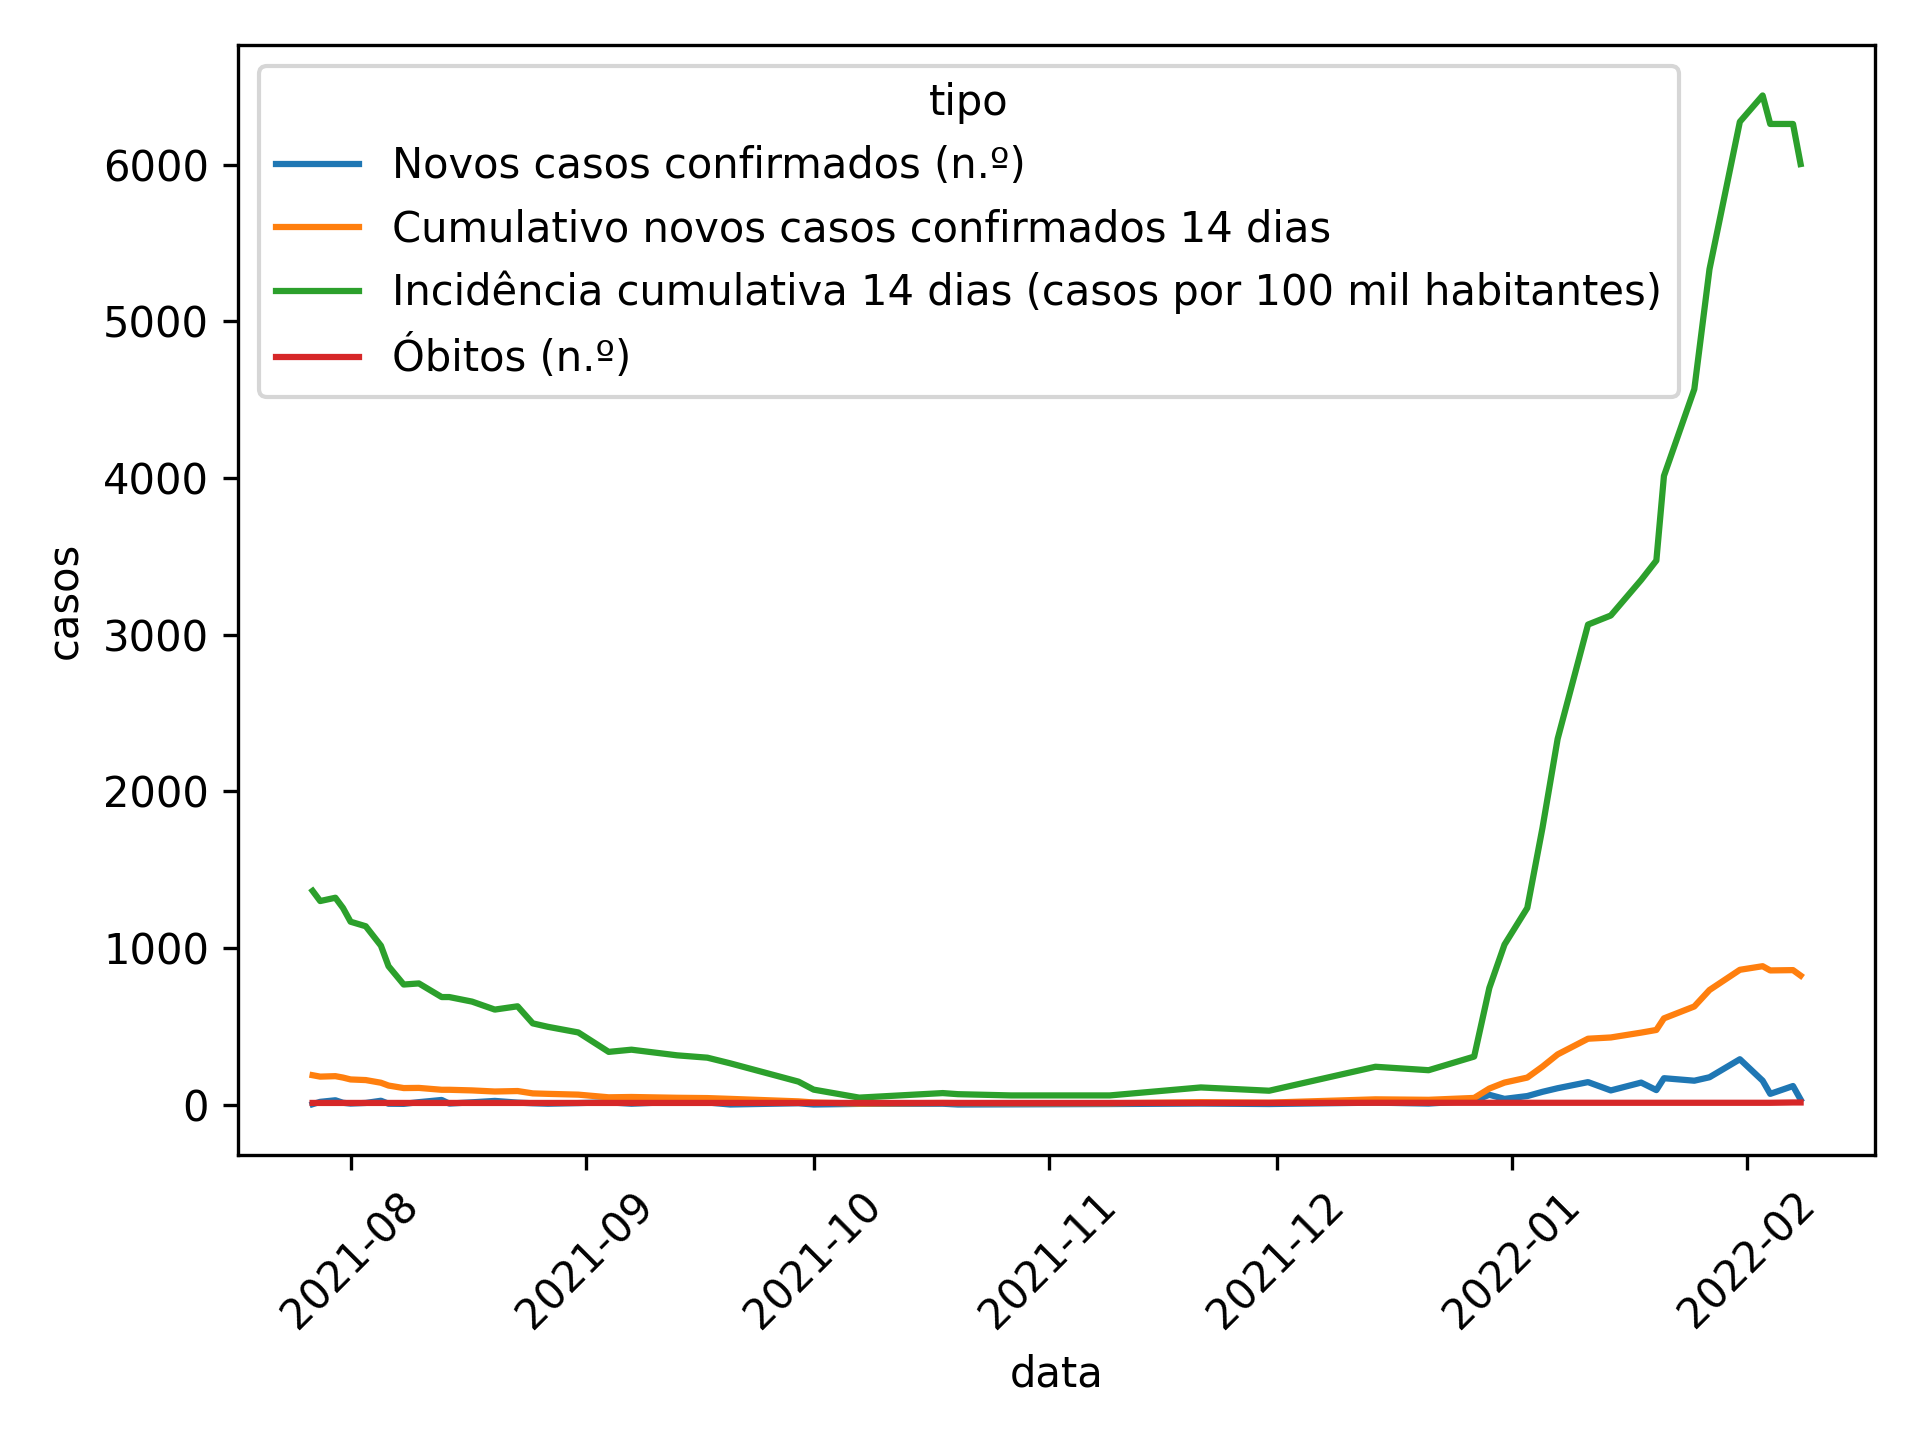
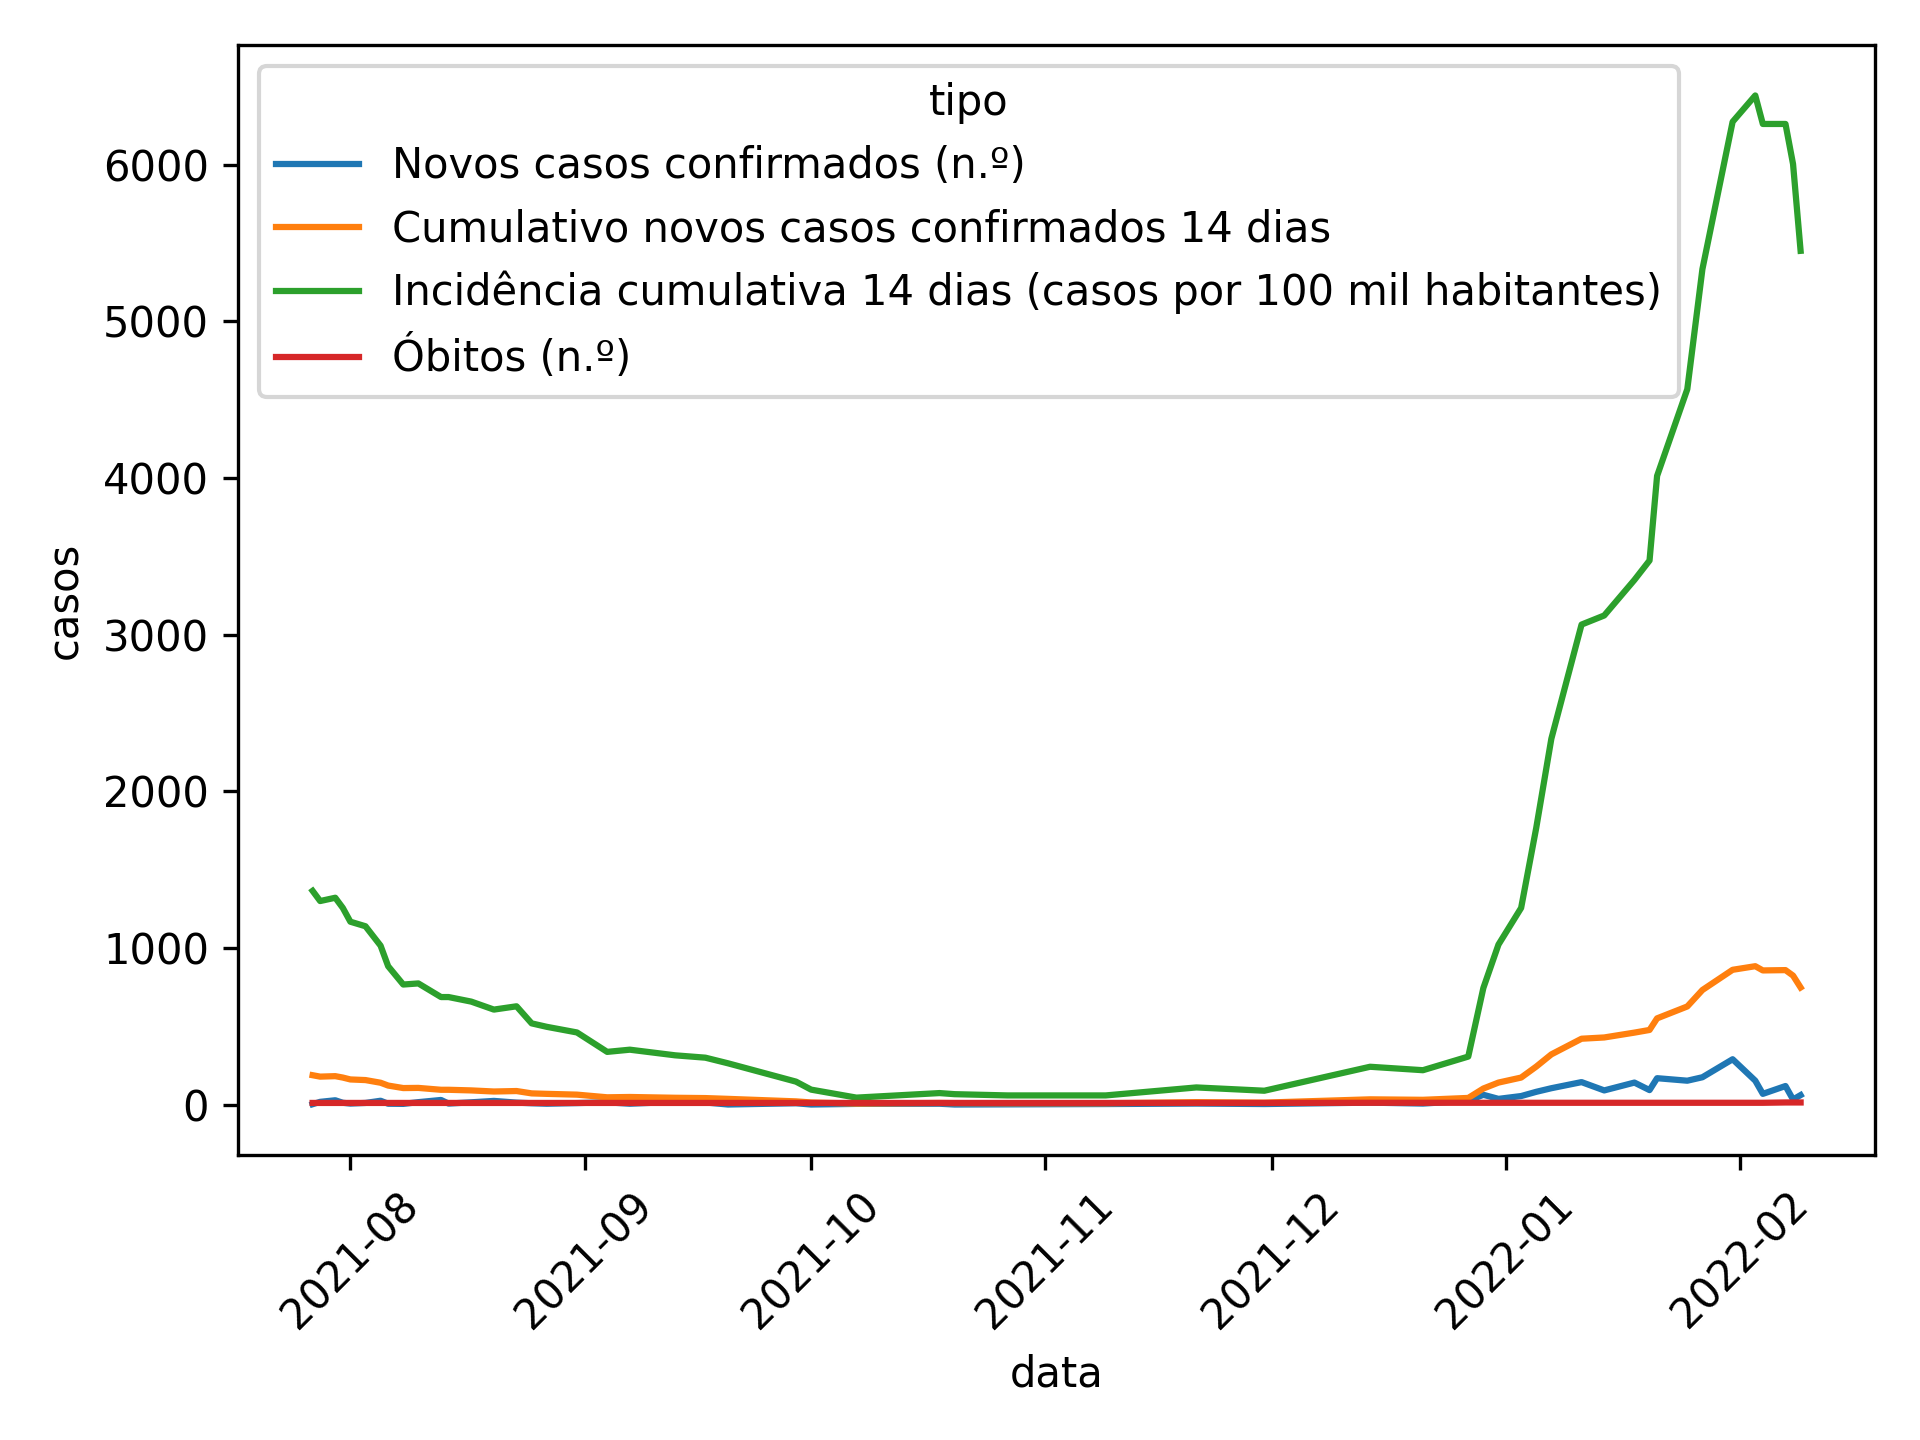
Apply automatic changes

diff --git a/README.md b/README.md
@@ -6,7 +6,6 @@
 
 | data       |   Novos casos confirmados (n.º) |   Cumulativo novos casos confirmados 14 dias |   Incidência cumulativa 14 dias (casos por 100 mil habitantes) |   Óbitos (n.º) |   Casos ativos (n.º) |   Vigilâncias ativas (n.º) |
 |:-----------|--------------------------------:|---------------------------------------------:|---------------------------------------------------------------:|---------------:|---------------------:|---------------------------:|
-| 03-01-2022 |                              54 |                                          172 |                                                           1255 |             11 |                  118 |                        117 |
 | 05-01-2022 |                              81 |                                          242 |                                                           1766 |             11 |                  162 |                        127 |
 | 07-01-2022 |                             104 |                                          320 |                                                           2335 |             11 |                  156 |                         93 |
 | 11-01-2022 |                             143 |                                          420 |                                                           3064 |             11 |                  129 |                         99 |
@@ -21,3 +20,4 @@
 | 04-02-2022 |                              68 |                                          856 |                                                           6260 |             11 |                  nan |                        nan |
 | 07-02-2022 |                             118 |                                          858 |                                                           6260 |             13 |                  nan |                        nan |
 | 08-02-2022 |                              32 |                                          823 |                                                           6004 |             13 |                  nan |                        nan |
+| 09-02-2022 |                              60 |                                          747 |                                                           5450 |             13 |                  nan |                        nan |
